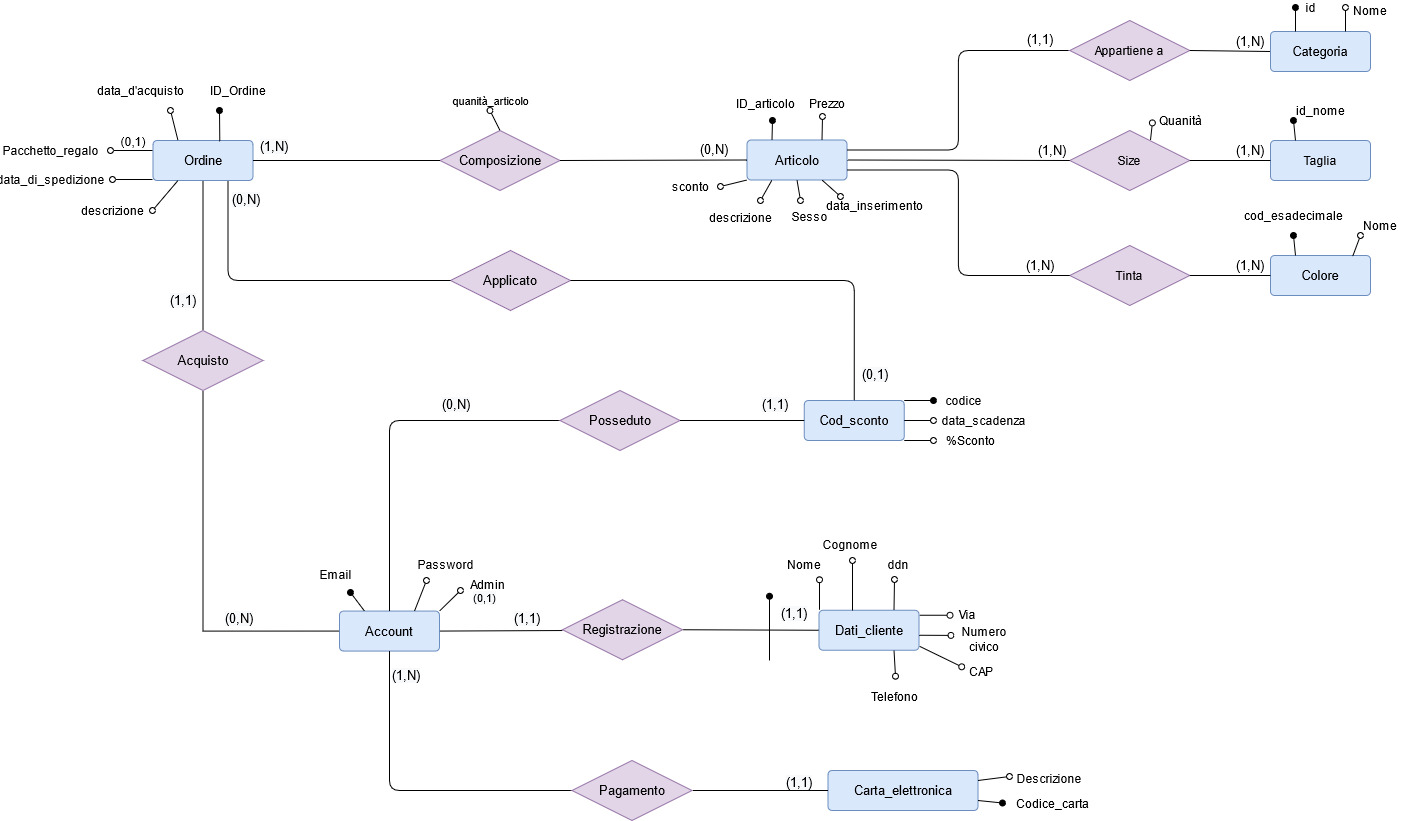
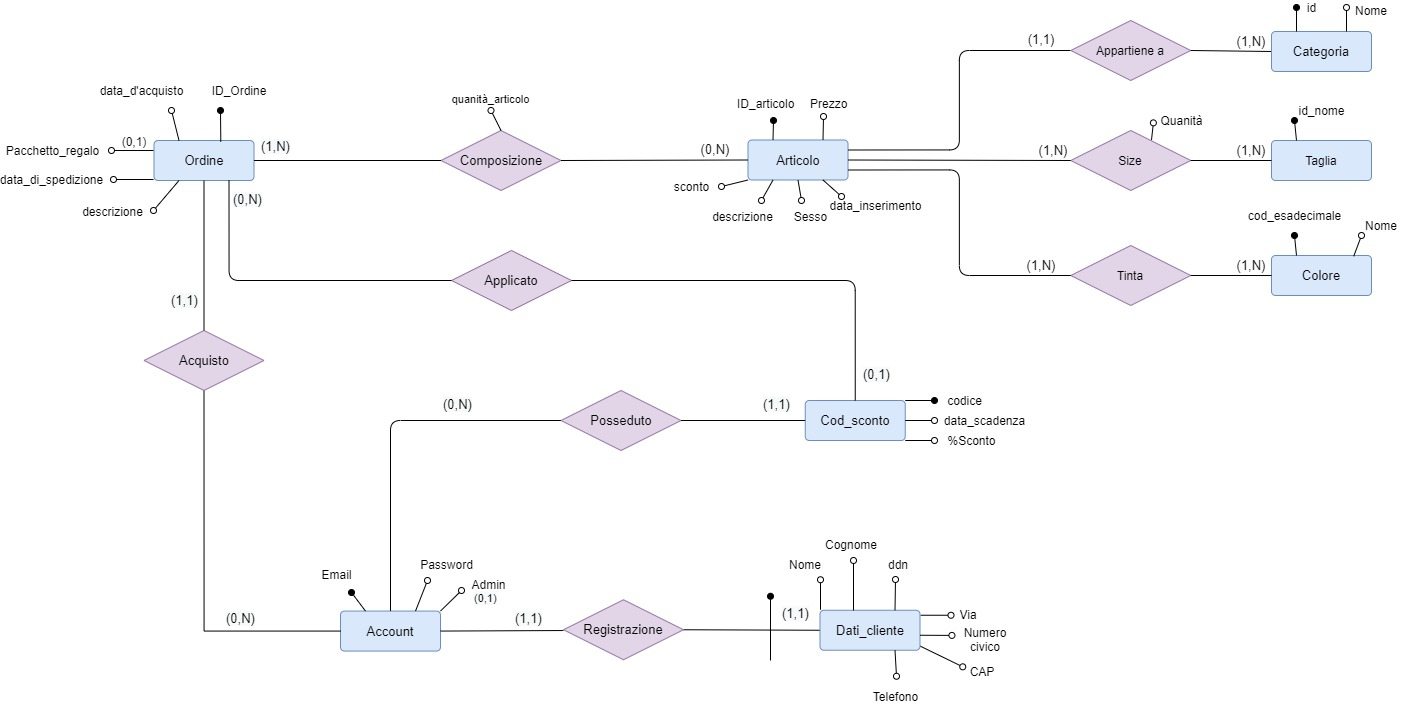
update

diff --git a/Code Toj/src/main/webapp/css/customer/checkout.css b/Code Toj/src/main/webapp/css/customer/checkout.css
@@ -235,39 +235,40 @@ strong {
 label img{
     width: 170px;
     height: auto;
-    transform: translate3d(0, 24px, 0);
+    cursor: pointer;
+    transform: translate3d(0, 7px, 0);
 }
 
 label.inline{
     display: inline;
 }
 
-@media screen and (max-width: 965px){
+@media screen and (max-width: 988px){
     .column-contact{
         width: 100%;
     }
 }
 
-@media screen and (max-width: 500px){
-    label.label{
-        font-size: 14px;
-    }
-}
-
-@media screen and (max-width: 426px ){
+@media screen and (max-width: 717px){
     label.label{
         font-size: 12px;
     }
 }
 
-@media screen and (max-width: 375px){
+@media screen and (max-width: 534px){
     label.label{
-        font-size: 10px;
+        font-size: 11px;
     }
 }
 
-@media screen and (max-width: 320px){
+@media screen and (max-width: 416px){
     label.label{
-        font-size: 8px;
+        font-size: 7.43px;
+    }
+}
+
+@media screen and (max-width: 335px){
+    .order_button button{
+        font-size: 14px;
     }
 }

diff --git a/Code Toj/src/main/java/Model/Account/Account.java b/Code Toj/src/main/java/Model/Account/Account.java
@@ -1,6 +1,5 @@
 package Model.Account;
 
-import Model.Carta_Elettronica.CartaElettronica;
 import Model.Dati_utente.DatiUtente;
 import Model.Ordine.Ordine;
 import Model.Sconto.Sconto;
@@ -18,7 +17,6 @@ public class Account {
     private boolean admin;
     private List<Ordine> ordini;
     private List<Sconto> codSconto;
-    private List<CartaElettronica> cartePay;
     private DatiUtente dtUser;
 
     public Account(){
@@ -70,14 +68,6 @@ public class Account {
 
     public void setCodSconto(List<Sconto> codSconto) {
         this.codSconto = codSconto;
-    }
-
-    public List<CartaElettronica> getCartePay() {
-        return cartePay;
-    }
-
-    public void setCartePay(List<CartaElettronica> cartePay) {
-        this.cartePay = cartePay;
     }
 
     public DatiUtente getDtUser() {
